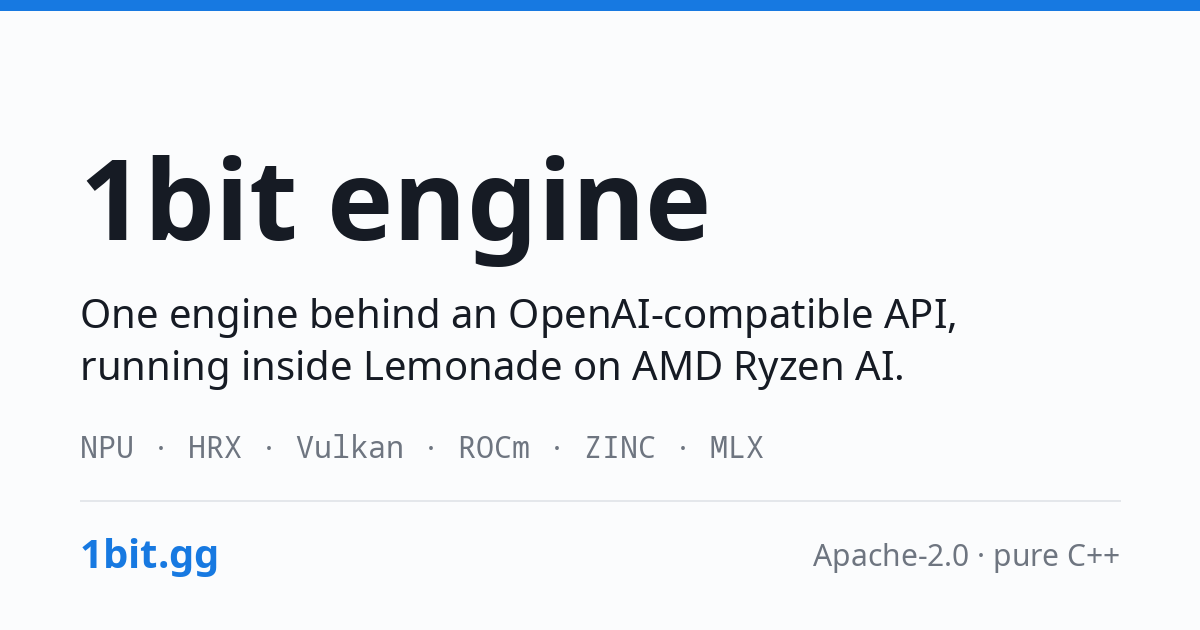
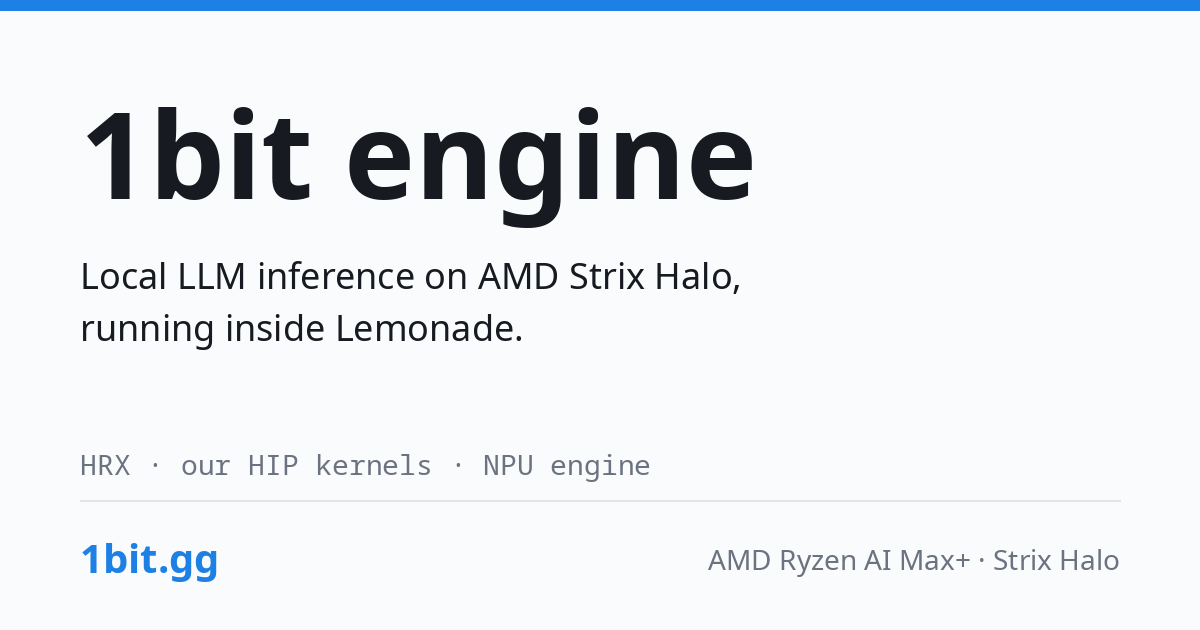
Blog: every node on the GPU; per-post link-preview cards; home description to today's milestones (#1)
* Blog: every node on the GPU; home description and keywords to today's milestones

* Link previews: a post can carry its own card (image: line); new default card without the cut routes

The default og-card listed Vulkan, ROCm, ZINC and MLX. New card: HRX, our HIP kernels, NPU engine.
The 21 Oct post gets its own card (Every node on the GPU, 36 tok/s Qwen3.8-27B with MTP).

---------

diff --git a/tools/site.py b/tools/site.py
@@ -28,7 +28,8 @@
 #                  blog-<slug>.html, and feed.xml carries them as an Atom feed
 #   404.html       sends old 1bit.MONSTER addresses to the archived old site
 #
-# A post may start with "tags: a, b" lines and a "summary: one line" before its "# Title"; its
+# A post may start with "tags: a, b" lines, a "summary: one line" and an "image: card.png" (its own
+# 1200x630 link-preview card in site/assets) before its "# Title"; its
 # first paragraph is its lead. The summary (the lead when there is none) is the post's meta
 # description and its feed.xml summary, which the Discord blog mirror posts. Links to other docs become page links; links to other files in the repository go
 # to them on GitHub.
@@ -75,11 +76,12 @@ TAGLINE = ("One engine behind an OpenAI-compatible API, running inside Lemonade:
            "iGPU with our Loom kernels, the XDNA 2 NPU, ZINC for NVIDIA and Apple GPUs, MLX on Apple Silicon.")
 # The home page's search and social description: the headline milestones, measured on Strix Halo
 # (docs/serve.md, docs/lean.md). Keep it <= 160 characters and update it with each milestone.
-HOME_DESCRIPTION = ("Local LLM inference for AMD Strix Halo inside Lemonade: HRX reads Qwen3.8-27B prompts "
-                    "at 335 tok/s and runs ZAYA1-8B at 90 tok/s. First release 4 Oct 2026.")
+HOME_DESCRIPTION = ("Local LLM inference for AMD Strix Halo inside Lemonade: every model on the GPU via HRX "
+                    "and our HIP kernels; Qwen3.8-27B decodes at 36 tok/s with MTP.")
 HOME_KEYWORDS = ("LLM inference, AMD Ryzen AI, Strix Halo, Radeon 8060S, HRX, ggml-hrx, Loom kernels, XDNA 2 NPU, "
                  "Lemonade, OpenAI-compatible API, GGUF, Qwen3.8, Zyphra ZAYA1, Unsloth dynamic GGUF, MTP, "
-                 "Hadamard Q4, Laya router, local AI, first release")
+                 "Hadamard Q4, Laya router, HIP kernels, speculative decoding, strict GPU placement, Ubuntu 26.04, "
+                 "1bit OS, local AI")
 
 # top bar: (label, page name or absolute URL)
 TOP = [("Engine", "overview"), ("Docs", "docs"), ("Blog", "blog"), ("Benchmarks", WIKI)]
@@ -227,22 +229,24 @@ def page_url(name):
     return SITE if name == "index" else f"{SITE}{name}.html"
 
 
-def seo_head(name, title, description, og_type, jsonld, noindex):
+def seo_head(name, title, description, og_type, jsonld, noindex, image=None, image_alt=None):
     esc = lambda s: html.escape(s, quote=True)
     if noindex:
         return '<meta name="robots" content="noindex">'
     url = page_url(name)
+    image = image or OG_IMAGE
+    image_alt = image_alt or "1bit engine: local LLM inference on AMD Strix Halo inside Lemonade"
     tags = [f'<link rel="canonical" href="{url}">',
             f'<meta property="og:url" content="{url}">',
             f'<meta property="og:type" content="{og_type}">',
-            f'<meta property="og:image" content="{OG_IMAGE}">',
+            f'<meta property="og:image" content="{image}">',
             '<meta property="og:image:width" content="1200">',
             '<meta property="og:image:height" content="630">',
-            '<meta property="og:image:alt" content="1bit engine: one engine behind an OpenAI-compatible API">',
+            f'<meta property="og:image:alt" content="{esc(image_alt)}">',
             '<meta name="twitter:card" content="summary_large_image">',
             f'<meta name="twitter:title" content="{esc(title)}">',
             f'<meta name="twitter:description" content="{esc(description)}">',
-            f'<meta name="twitter:image" content="{OG_IMAGE}">']
+            f'<meta name="twitter:image" content="{image}">']
     if jsonld:
         # "</" cannot appear inside a script element
         tags.append('<script type="application/ld+json">' + json.dumps(jsonld, ensure_ascii=False).replace("</", "<\\/") + "</script>")
@@ -256,17 +260,23 @@ def plain(markdown_text):
     return re.sub(r"[`*_]", "", " ".join(text.split()))
 
 
+def post_image(text):
+    """A post's own link-preview card: an optional "image: file.png" line (site/assets, 1200x630)."""
+    m = re.search(r"^image:\s*(\S+)\s*$", strip_notice(text).split("\n# ", 1)[0], re.M)
+    return SITE + "assets/" + m.group(1) if m else None
+
+
 def split_post(text):
     """-> (tags, title, lead paragraph, the rest, one-line summary or "") of a post."""
     text = strip_notice(text)
     tags, summary = [], ""
     while True:
-        m = re.match(r"\s*(tags|summary):\s*(.+)\n", text)
+        m = re.match(r"\s*(tags|summary|image):\s*(.+)\n", text)
         if not m:
             break
         if m.group(1) == "tags":
             tags += [t.strip() for t in m.group(2).split(",") if t.strip()]
-        else:
+        elif m.group(1) == "summary":
             summary = m.group(2).strip()
         text = text[m.end():]
     m = re.match(r"\s*# (.+)\n", text)
@@ -354,12 +364,12 @@ class Site:
         return "\n".join(out)
 
     def write(self, name, title, main, kind, section, description=TAGLINE, extra_head="",
-              og_type="website", jsonld=None, lastmod=None, noindex=False):
+              og_type="website", jsonld=None, lastmod=None, noindex=False, image=None, image_alt=None):
         if not noindex:
             self.pages.append((page_url(name), lastmod or datetime.date.today().isoformat()))
         title, description = meta_title(title), meta_description(description)
         page = (self.template
-                .replace("{{seo}}", seo_head(name, title, description, og_type, jsonld, noindex))
+                .replace("{{seo}}", seo_head(name, title, description, og_type, jsonld, noindex, image, image_alt))
                 .replace("{{title}}", html.escape(title))
                 .replace("{{description}}", html.escape(description, quote=True))
                 .replace("{{kind}}", kind)
@@ -438,6 +448,7 @@ class Site:
         for i, (date, slug, src) in enumerate(self.posts):
             tags, title, lead, body, summary = split_post(src.read_text())
             summary = summary or plain(lead)
+            image = post_image(src.read_text())
             name = f"blog-{slug}"
             tag_html = "".join(f'<span class="tag">{html.escape(t)}</span>' for t in tags)
             newer = self.posts[i - 1] if i > 0 else None
@@ -456,10 +467,10 @@ class Site:
                     f'<nav class="pager">{link(newer, "prev", "Newer")}{link(older, "next", "Older")}</nav>\n'
                     "</div></article>")
             self.write(name, f"{title} · 1bit engine", main, "post", "blog", summary, og_type="article",
-                       lastmod=max(date, last_commit_date(src)),
+                       lastmod=max(date, last_commit_date(src)), image=image, image_alt=title,
                        jsonld={"@context": "https://schema.org", "@type": "BlogPosting", "headline": title,
                                "description": summary, "datePublished": date,
-                               "dateModified": max(date, last_commit_date(src)), "image": OG_IMAGE,
+                               "dateModified": max(date, last_commit_date(src)), "image": image or OG_IMAGE,
                                "url": page_url(name), "mainEntityOfPage": page_url(name),
                                "author": {"@type": "Person", "name": "bong-water-water-bong"},
                                "publisher": {"@type": "Organization", "name": "1bit engine", "url": SITE},

diff --git a/blog/2026-10-21-every-node-on-hrx.md b/blog/2026-10-21-every-node-on-hrx.md
@@ -1,0 +1,95 @@
+<!--
+Copyright 2026 bong-water-water-bong
+SPDX-License-Identifier: Apache-2.0
+
+Licensed under the Apache License, Version 2.0 (the "License");
+you may not use this file except in compliance with the License.
+You may obtain a copy of the License at
+
+    http://www.apache.org/licenses/LICENSE-2.0
+
+Unless required by applicable law or agreed to in writing, software
+distributed under the License is distributed on an "AS IS" BASIS,
+WITHOUT WARRANTIES OR CONDITIONS OF ANY KIND, either express or implied.
+See the License for the specific language governing permissions and
+limitations under the License.
+-->
+tags: milestone, hrx, lemonade, release
+image: og-every-node-on-hrx.png
+summary: Every graph node of 43 model and mode configurations now runs on the Strix Halo GPU through HRX and our HIP kernels; Qwen3.8-27B decodes at 36 tok/s with MTP.
+
+# Every node on the GPU: the engine ahead of its first release
+
+On a Ryzen AI Max+ 395 (Strix Halo), the engine now runs every graph node of every model and mode
+we test on the integrated GPU, through AMD's HRX runtime and our own HIP kernels. Nothing falls
+back to the CPU. Here is what landed, measured on that machine.
+
+## 43 of 43 configurations, all on HRX
+
+We keep a census of the models people run and the modes they run them in: a short chat, a long
+prompt, a q8 KV cache, four requests in parallel, speculative decoding with MTP, embeddings and
+reranking. The models are Qwen3 0.6B, 4B and 8B, Qwen3.8-27B, Qwen3-Coder-30B-A3B,
+GLM-4.7-Flash, ZAYA1-8B, LFM2, MiniCPM, and the nomic, bge and jina embedding and reranking models.
+
+On 20 October the census found 12 gaps, places where a node still ran on the CPU. All 12 are
+closed. The closing census: 43 of 43 runnable configurations with 0 nodes off the GPU, one graph
+split, and every request answered
+([#476](https://github.com/1bit-MONSTER/engine/pull/476),
+[#480](https://github.com/1bit-MONSTER/engine/pull/480),
+[#481](https://github.com/1bit-MONSTER/engine/pull/481)). Among them:
+
+- a q8_0 KV cache, with K and V or K alone, now keeps flash attention on the GPU;
+- four parallel requests work on LFM2, ZAYA1-8B and the Qwen3.5/3.8 family;
+- Qwen3.8-27B with MTP answers an 8K-token prompt;
+- jina-bert's attention, with its ALiBi bias, runs on the GPU.
+
+## Speed
+
+Qwen3.8-27B (UD-Q4_K_XL) with MTP speculative decoding, greedy 256-token chats:
+
+| prompt | before | now |
+|---|---|---|
+| code | 25.9 tok/s | **36.0 tok/s** |
+| prose | 20.5 tok/s | **26.8 tok/s** |
+| short | 21.9 tok/s | **29.9 tok/s** |
+
+The verify step checks four tokens at once. New kernels for 2 to 8 tokens took it from 121 ms to
+88 ms ([#487](https://github.com/1bit-MONSTER/engine/pull/487)). Decode without MTP is unchanged
+at 12.2 tok/s. The same model reads a 4,096-token prompt at about 575 tok/s.
+
+## Strict by default
+
+A node that quietly runs on the CPU is a slowdown nobody asked for. HRX placement is now strict by
+default: if any node of a model would run on the CPU, the load stops with one line that names the
+node, its op and its shape, and `--no-strict-device` turns the fallback back on
+([#482](https://github.com/1bit-MONSTER/engine/pull/482)).
+
+The hardware gate that every pin change passes now builds our kernels into the server, checks
+that every graph of every gate model is on the GPU, adds q8 KV cache rows, and checks every kernel
+registration against its compiled code at startup
+([#478](https://github.com/1bit-MONSTER/engine/pull/478),
+[#484](https://github.com/1bit-MONSTER/engine/pull/484)). That gate caught three bugs this week
+before they reached main.
+
+The runtime also got safer: one memory budget for every buffer, coherent host reads, and after a
+GPU fault the server refuses new work and exits cleanly, so Lemonade can restart the model
+([#486](https://github.com/1bit-MONSTER/engine/pull/486)).
+
+## Inside Lemonade
+
+Lemonade now starts the engine's llama-server directly: one HTTP hop instead of two, one process
+fewer, and a quarter of a second off each model load
+([#475](https://github.com/1bit-MONSTER/engine/pull/475)). On Ubuntu 26.04 the stock lemond from
+the Lemonade PPA can use the engine through a systemd drop-in, with no patch to Lemonade
+([#483](https://github.com/1bit-MONSTER/engine/pull/483)). The same build also ships as the 1bit OS
+image, a bootable Lemonade appliance.
+
+## The NPU
+
+The NPU engine is coming along: correctness first, speed next. More in a later post.
+
+## When it ships
+
+The first release goes out when every item on our release checklist is done. Three full release
+rehearsals this week (build, packages, the OS image booted in a VM, a clean build from the binary
+drop) passed end to end.
